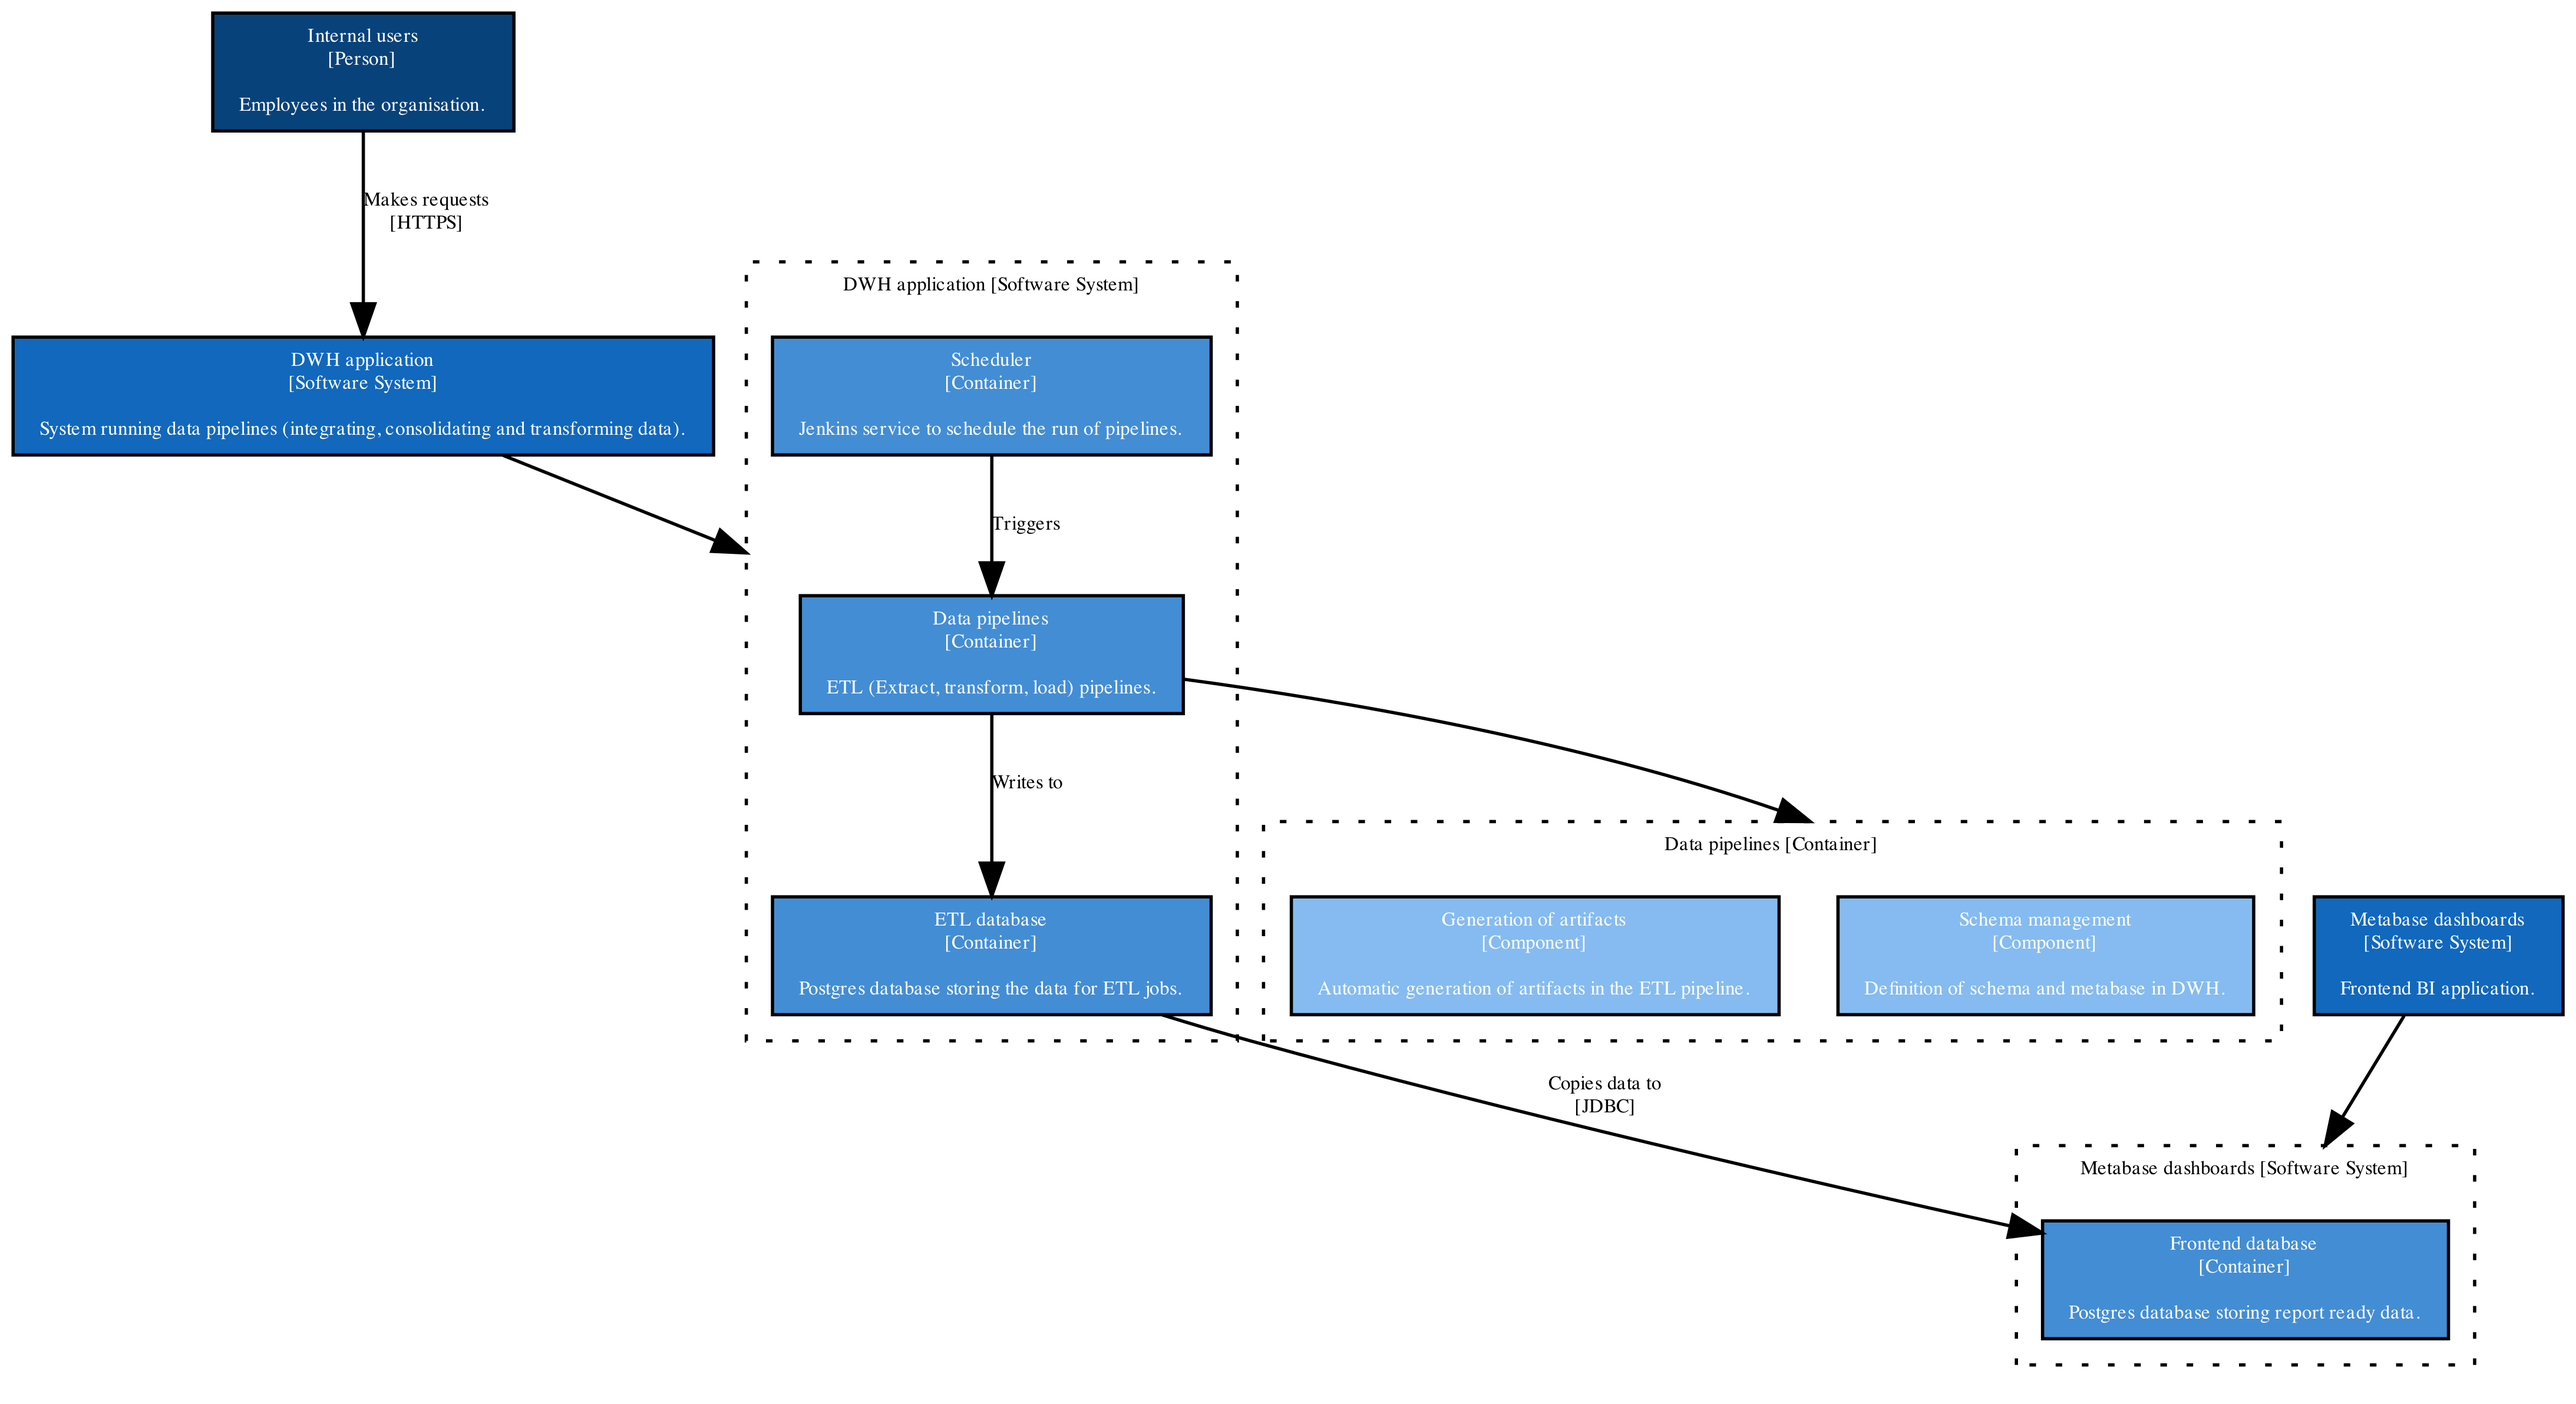
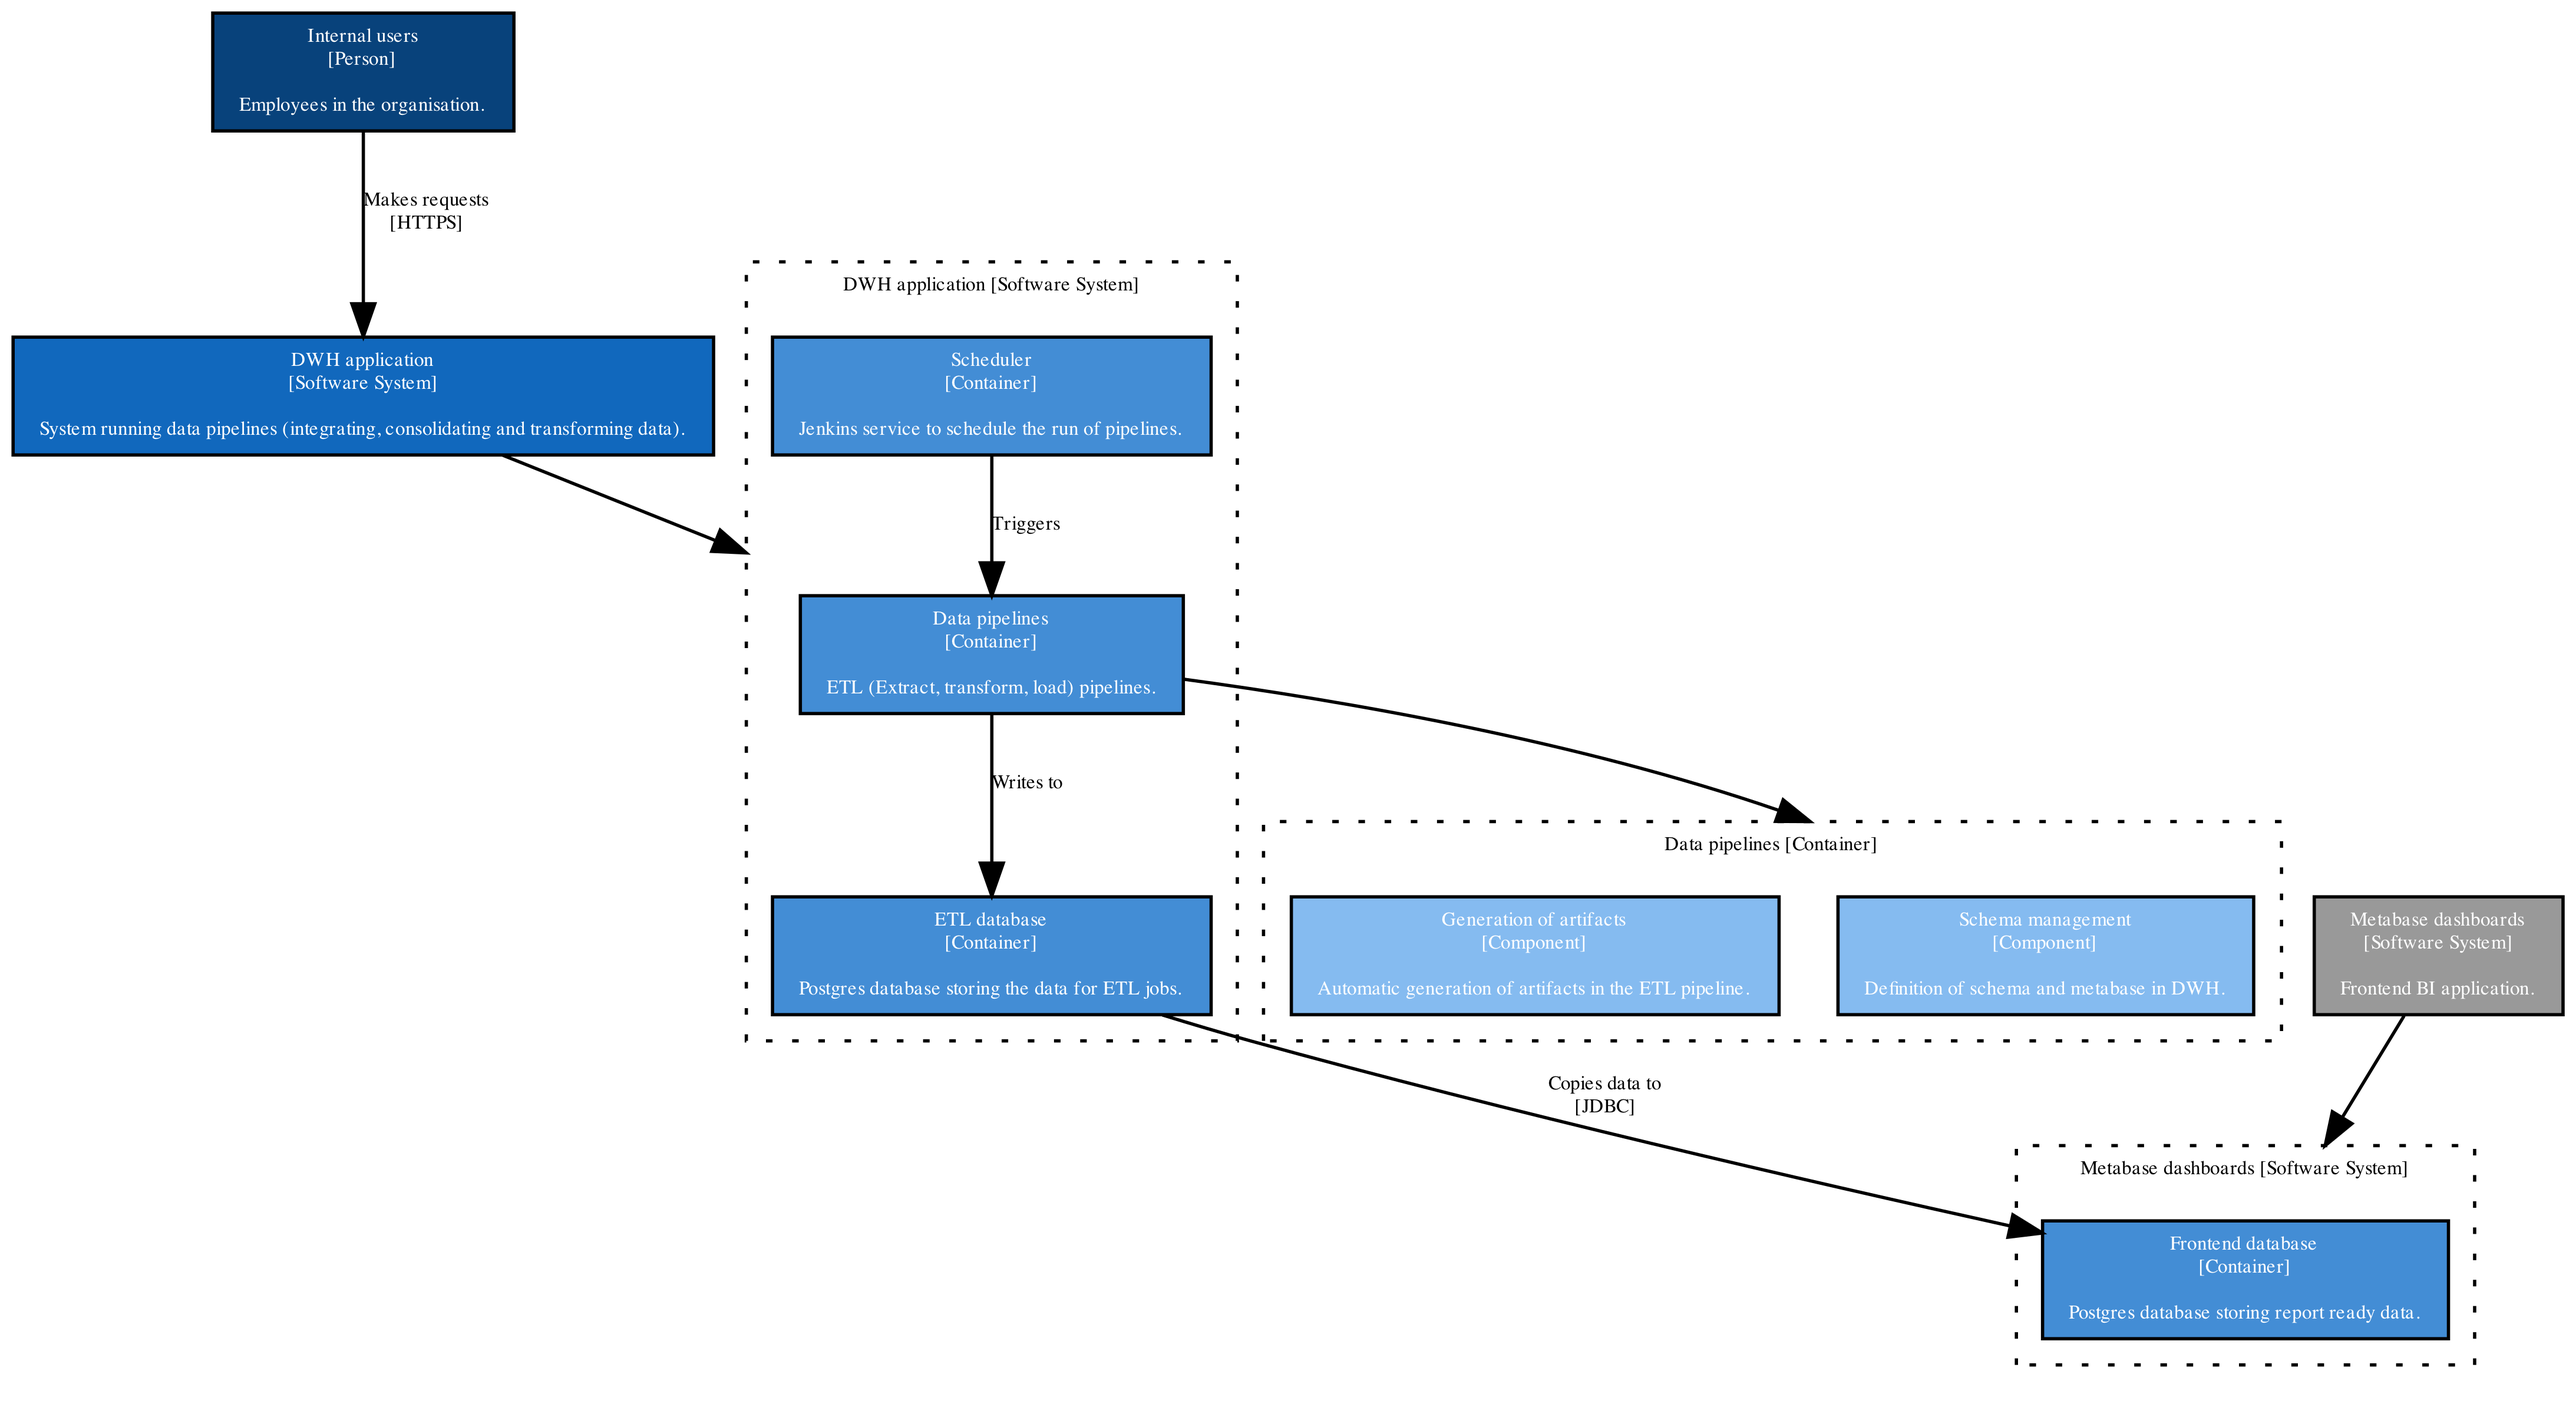
Differentiate between internal and external system

Changed region(s): [[0.871, 0.6211, 0.9954, 0.7453]]

diff --git a/architectures/dwh.py b/architectures/dwh.py
@@ -16,7 +16,8 @@ dwh_app = System(
 
 metabase = System(
     name='Metabase dashboards',
-    description='Frontend BI application.')
+    description='Frontend BI application.',
+    internal=False)
 
 dwh.add_system(dwh_app)
 dwh.add_system(metabase)
